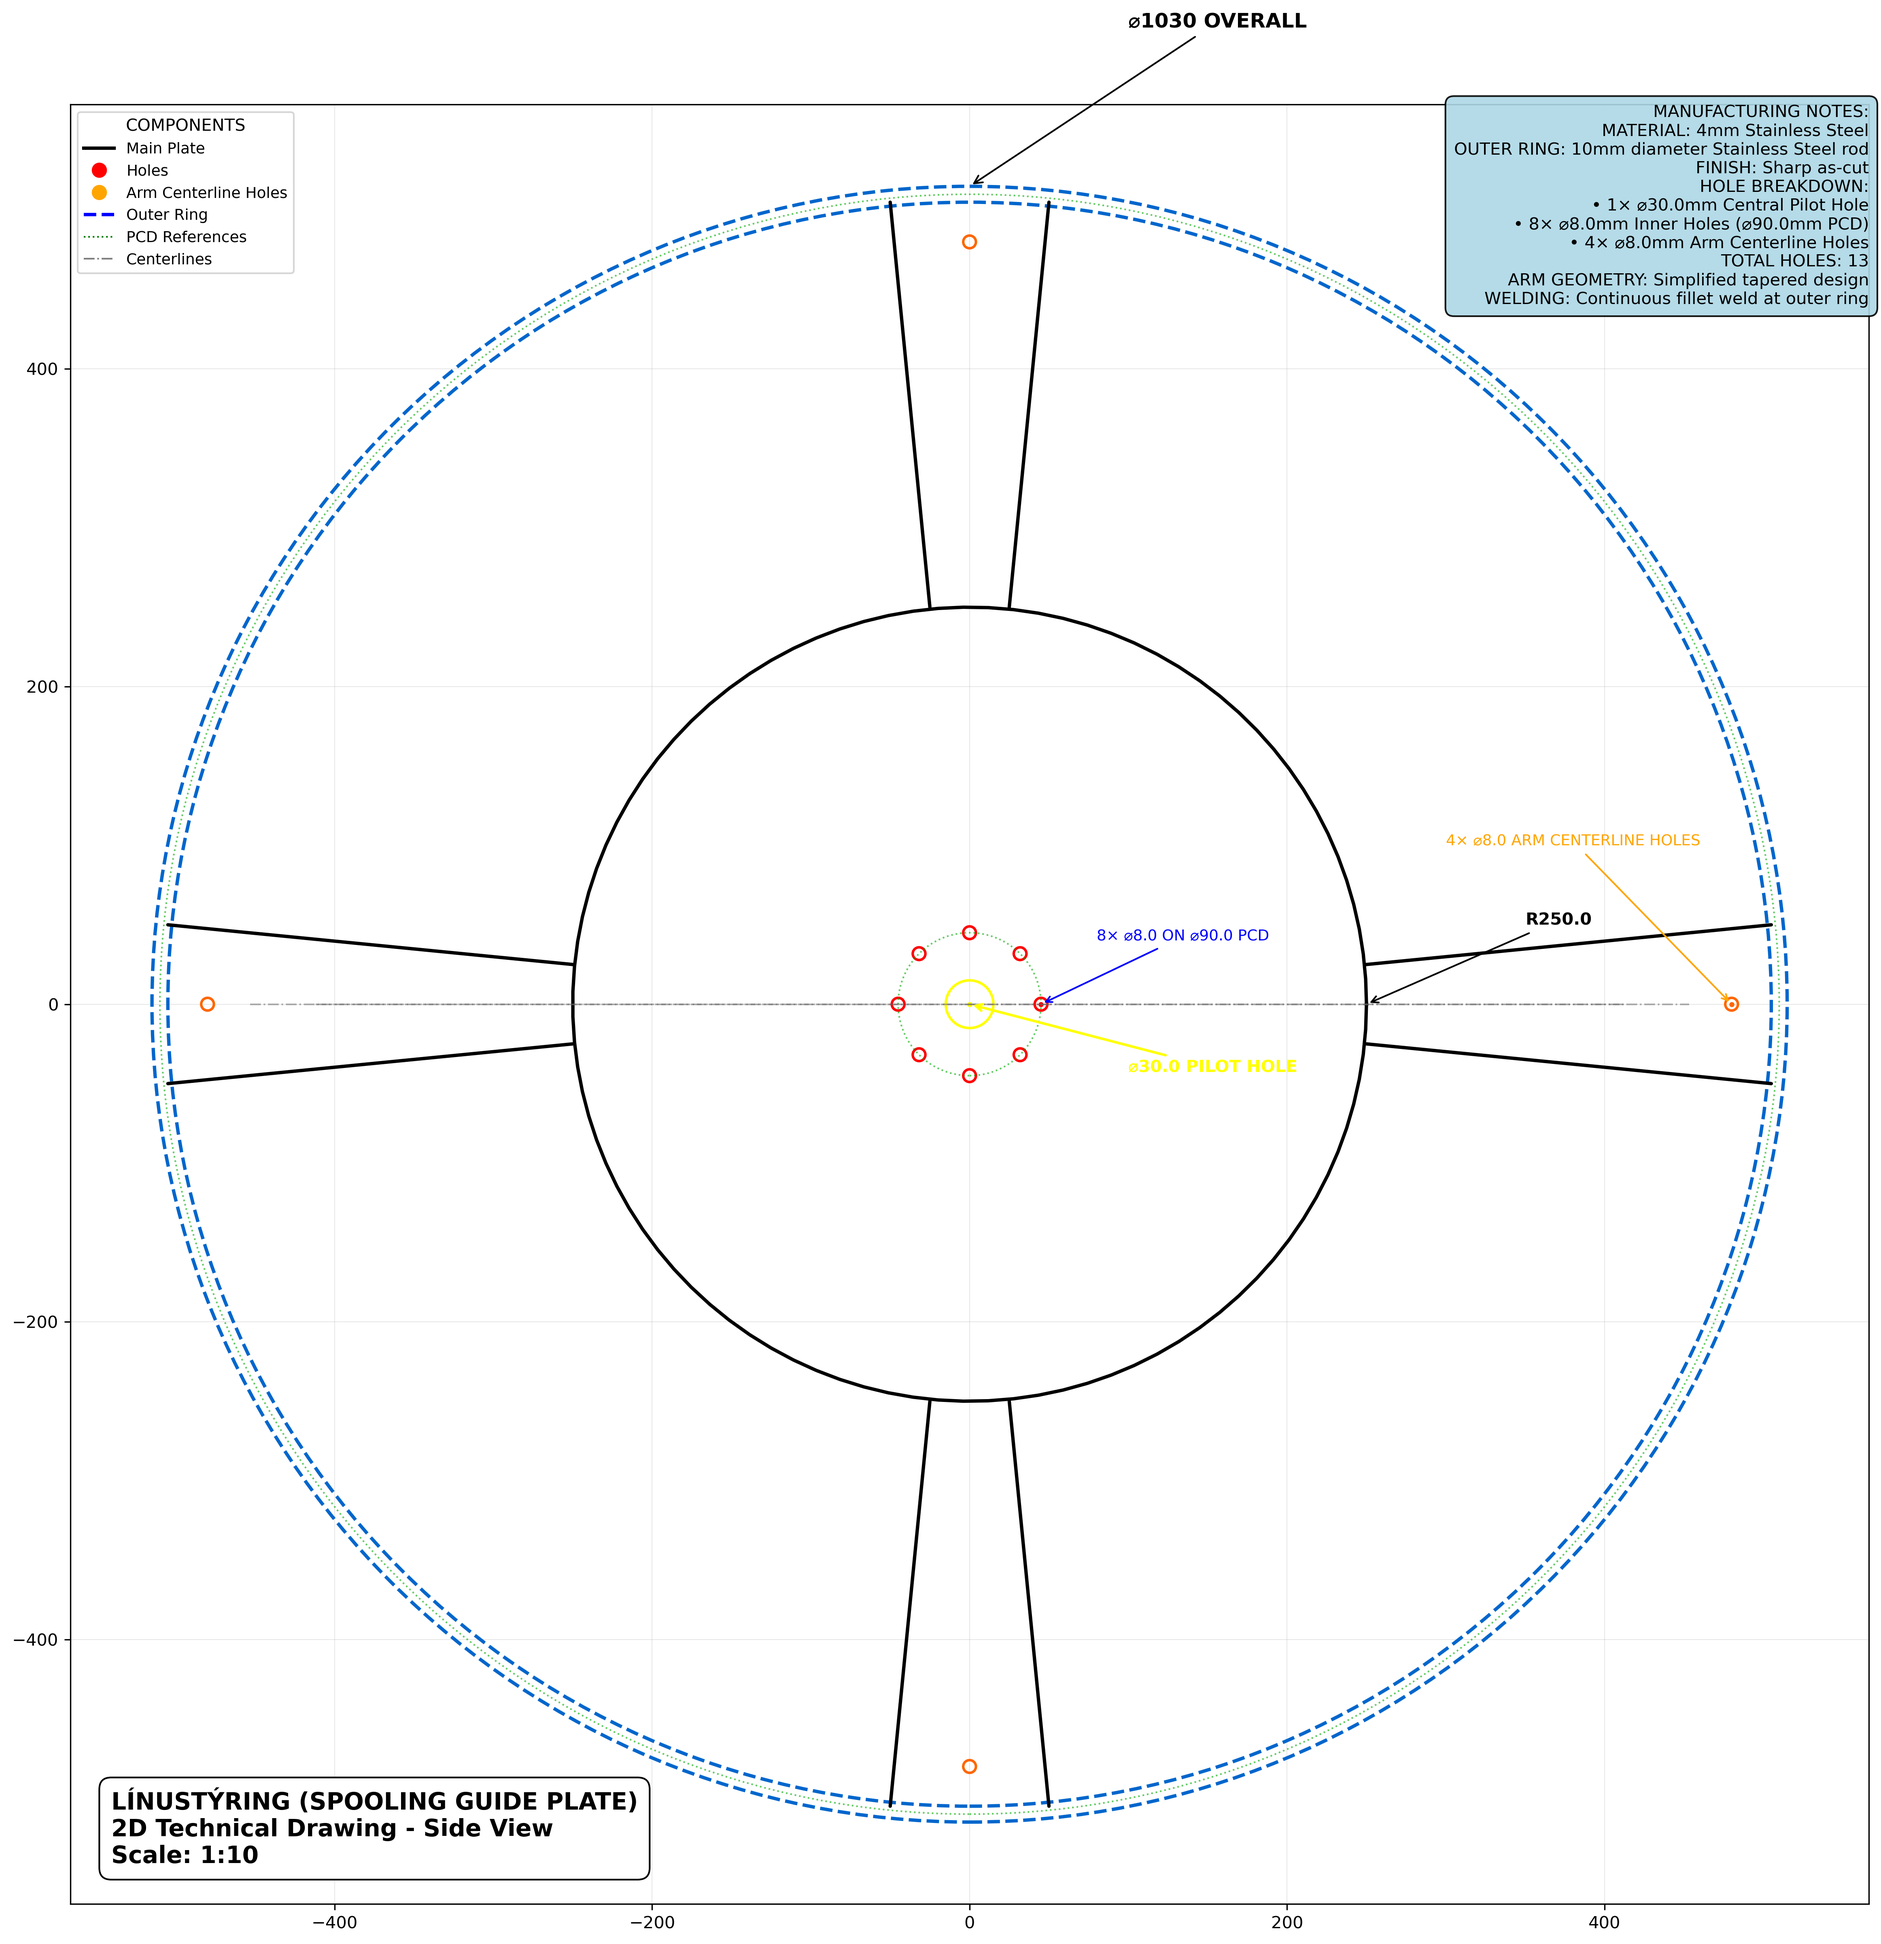
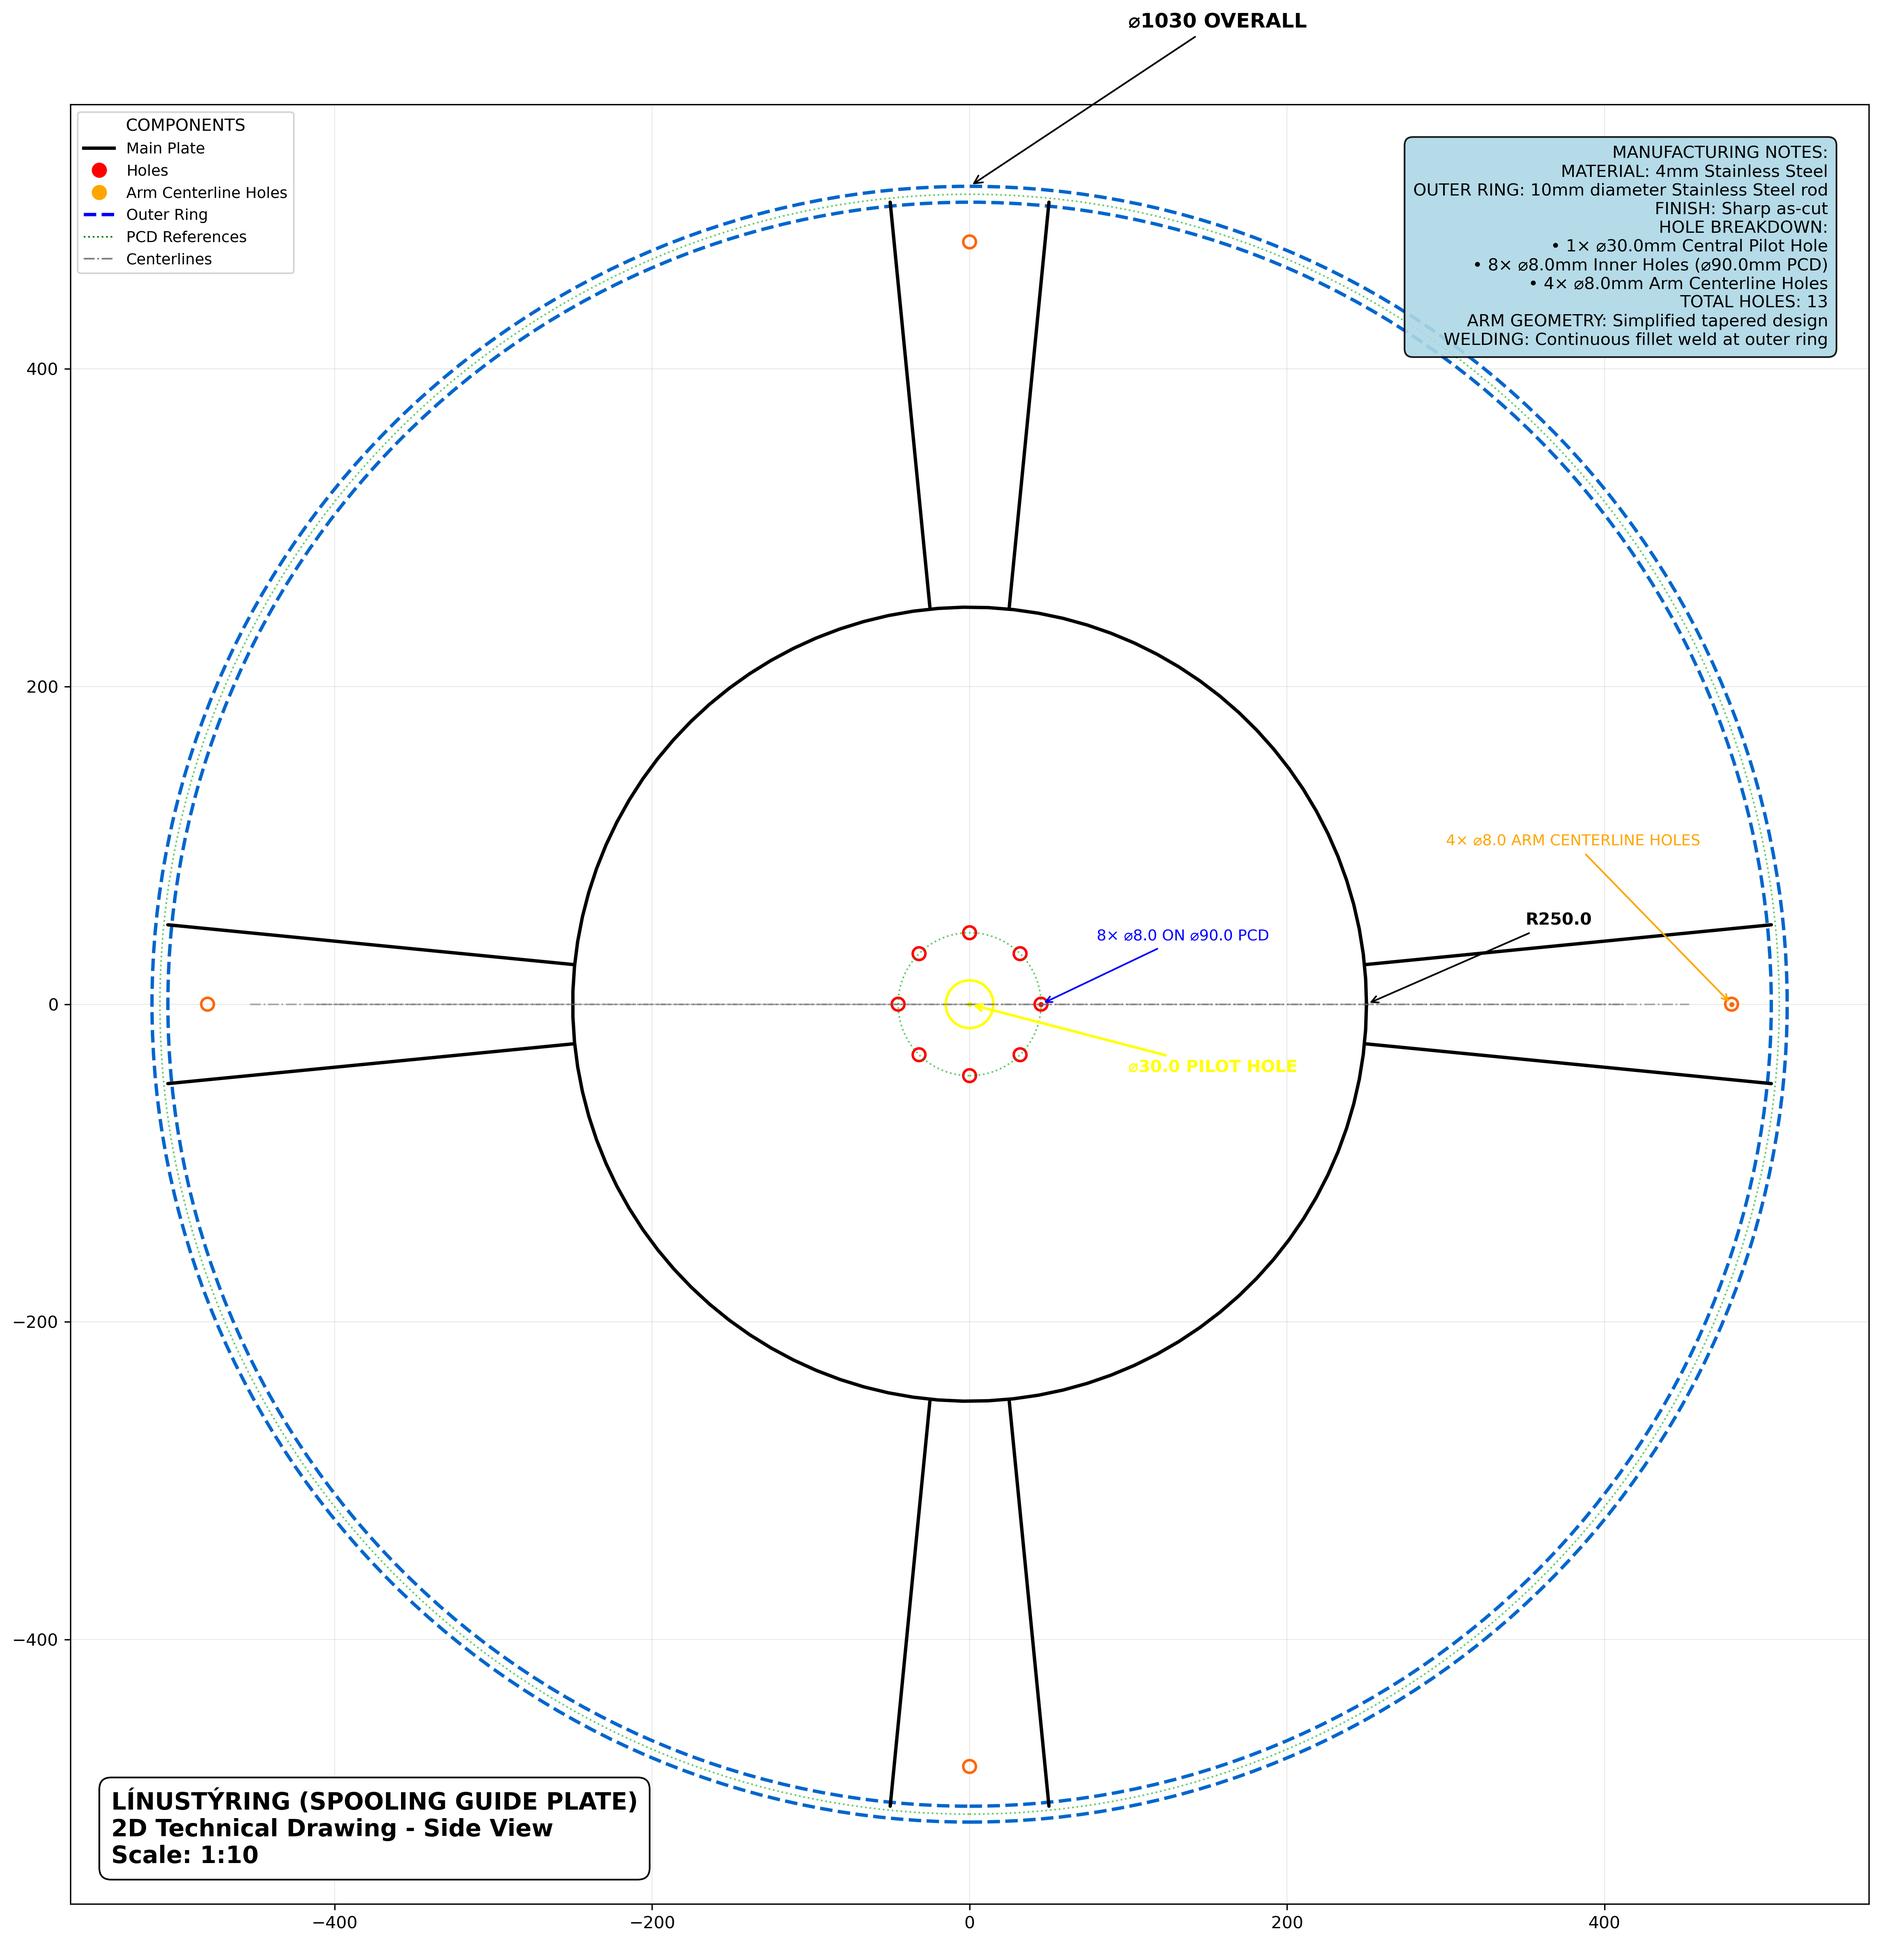
Set manufacturing notes to precise coordinates 1.05, 1.05
- Adjusted note_x from 1.1 to 1.05 (precise right positioning)
- Adjusted note_y from 1.1 to 1.05 (precise up positioning)
- Optimal balance between corner placement and accessibility
- Manufacturing notes positioned at exactly 1.05 radius distance in both axes
- Perfect symmetry with title block at -1.05, -1.05

Changed region(s): [[0.7487, 0.0312, 1.0, 0.1874]]

diff --git a/src/spooling_guide/annotations.py b/src/spooling_guide/annotations.py
@@ -112,8 +112,8 @@ def add_material_notes(ax):
         ax: Matplotlib axes object
     """
     overall_dims = geom.calculate_overall_dimensions()
-    note_x = overall_dims['overall_radius'] * 1.1   # Move further right
-    note_y = overall_dims['overall_radius'] * 1.1   # Move further up
+    note_x = overall_dims['overall_radius'] * 1.05   # Precise right positioning
+    note_y = overall_dims['overall_radius'] * 1.05   # Precise up positioning
     
     notes = [
         f"MATERIAL: {spec.MAIN_PLATE_MATERIAL}",
